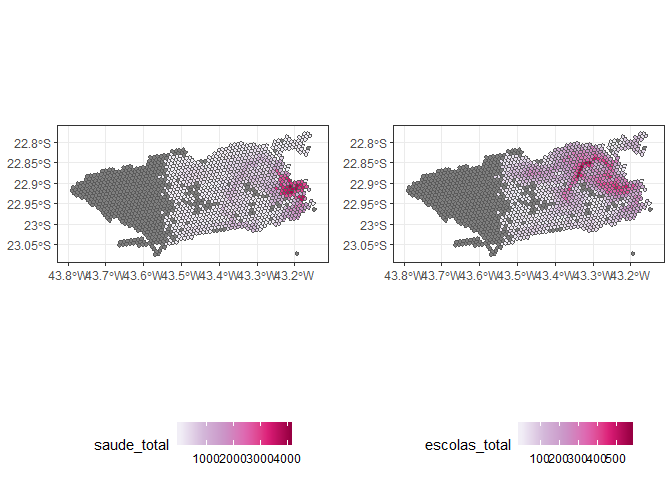
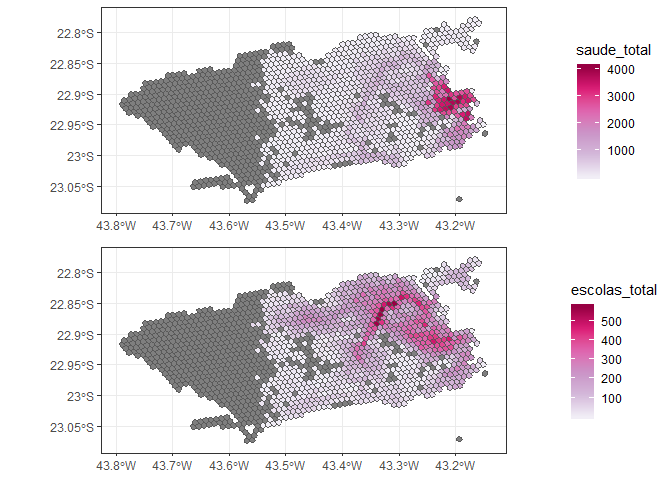
melhorar layout rio

diff --git a/05_acessibilidade.md b/05_acessibilidade.md
@@ -165,15 +165,14 @@ access_ac_rio_fim %>%
   ggplot()+
   geom_sf(aes(fill = saude_total))+
   theme_bw()+
-  theme(legend.position = "bottom")+
   scale_fill_gradientn(colors = RColorBrewer::brewer.pal(6, "PuRd")) +
 access_ac_rio_fim %>%
  select(-saude_total) %>%
   ggplot()+
   geom_sf(aes(fill = escolas_total))+
   theme_bw()+
-  theme(legend.position = "bottom")+
-  scale_fill_gradientn(colors = RColorBrewer::brewer.pal(6, "PuRd"))
+  scale_fill_gradientn(colors = RColorBrewer::brewer.pal(6, "PuRd"))+
+    plot_layout(ncol = 1)
 ```
 
 ![](05_acessibilidade_files/figure-markdown_github/viz%20rio-1.png)
